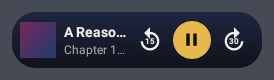
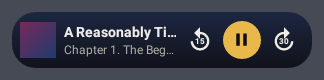
Widgets: the skips and the cover go before the title is squeezed (Now Playing 250 and 300 dp, Listen bar cover from 240 dp)
Claude-Session: https://claude.ai/code/session_012y7soafHxywyzp4CSwQggB

diff --git a/shared/src/commonTest/kotlin/com/chapterplayer/domain/widgets/ListenWidgetStateTest.kt b/shared/src/commonTest/kotlin/com/chapterplayer/domain/widgets/ListenWidgetStateTest.kt
@@ -163,7 +163,7 @@ class ListenWidgetStateTest {
     fun eachBucketIsItsOwnSizeClass() {
         val expected = mapOf(
             "MINI" to ListenSize.MINI, "MINI_TALL" to ListenSize.MINI,
-            "BAR" to ListenSize.BAR, "BAR_ROOMY" to ListenSize.BAR,
+            "BAR" to ListenSize.BAR, "BAR_MID" to ListenSize.BAR, "BAR_ROOMY" to ListenSize.BAR,
             "SQUARE" to ListenSize.SQUARE,
             "WIDE" to ListenSize.WIDE, "WIDE_MID" to ListenSize.WIDE, "WIDE_ROOMY" to ListenSize.WIDE,
             "LARGE" to ListenSize.LARGE, "LARGE_ROOMY" to ListenSize.LARGE,
@@ -182,7 +182,7 @@ class ListenWidgetStateTest {
             "4x1 sideways" to (554f to 51f), "4x2 sideways" to (554f to 117f), "4x3 sideways" to (554f to 184f),
         )
         val expected = mapOf(
-            "2x1" to "MINI_TALL", "3x1" to "BAR", "4x1" to "BAR",
+            "2x1" to "MINI_TALL", "3x1" to "BAR", "4x1" to "BAR_MID",
             "2x2" to "SQUARE", "3x2" to "WIDE", "4x2" to "WIDE_MID",
             "3x3" to "LARGE", "4x3" to "LARGE_ROOMY",
             "4x1 sideways" to "MINI", "4x2 sideways" to "BAR_ROOMY", "4x3 sideways" to "WIDE_ROOMY",
@@ -205,9 +205,11 @@ class ListenWidgetStateTest {
     fun theCoverIsInEverySizeButTheMiniBar() {
         for (b in LISTEN_BUCKETS) for (state in listOf(controls, resume)) {
             val layout = listenLayout(b.widthDp, b.heightDp, state)
-            if (layout.size == ListenSize.MINI) assertEquals(0f, layout.coverDp, b.name) else assertTrue(layout.coverDp > 0f, b.name)
+            // The mini bar has none; the narrowest bar leaves the room to the title (below LISTEN_BAR_COVER_MIN_DP).
+            if (layout.size == ListenSize.MINI || b.name == "BAR") assertEquals(0f, layout.coverDp, b.name) else assertTrue(layout.coverDp > 0f, b.name)
         }
-        assertEquals(44f, layoutAt("BAR").coverDp)
+        assertEquals(0f, layoutAt("BAR").coverDp)
+        assertEquals(44f, layoutAt("BAR_MID").coverDp)
         assertEquals(52f, layoutAt("SQUARE").coverDp)
         assertEquals(72f, layoutAt("WIDE").coverDp)
         assertEquals(92f, layoutAt("WIDE_MID").coverDp)
@@ -220,7 +222,8 @@ class ListenWidgetStateTest {
     /**
      * Which buttons each bucket shows for a loaded book that allows them all, worked by hand from the widths
      * (padding 10 + 10, gap 8 after the cover, 6 before the bar's buttons, play 48, side buttons 40 or 48):
-     * BAR 190: 190 - 20 - 44 - 8 - 6 - 48 = 64 dp of title: play only (back / forward would leave under 110).
+     * BAR 190: no cover below 240 dp; 190 - 20 - 6 - 48 = 116 dp of title: play only (back / forward would leave under 110).
+     * BAR_MID 250: 250 - 20 - 44 - 8 - 6 - 48 = 124 dp of title beside the cover: play only.
      * BAR_ROOMY 340: 340 - 20 - 44 - 8 - 6 - (48 + 2 x 48) = 118 dp of title: back / forward at 48 dp.
      * WIDE 200: 200 - 20 - 72 - 8 = 100 dp beside the cover: play only (back / forward need 128).
      * WIDE_MID 260: 260 - 20 - 92 - 8 = 140: back / forward at 40 (48 would need 144).
@@ -233,6 +236,7 @@ class ListenWidgetStateTest {
         data class Buttons(val skips: Boolean, val chapters: Boolean, val side: Float)
         val expected = mapOf(
             "BAR" to Buttons(false, false, 40f),
+            "BAR_MID" to Buttons(false, false, 40f),
             "BAR_ROOMY" to Buttons(true, false, 48f),
             "WIDE" to Buttons(false, false, 40f),
             "WIDE_MID" to Buttons(true, false, 40f),
@@ -257,6 +261,14 @@ class ListenWidgetStateTest {
         val roomyBar = layoutAt("BAR_ROOMY")
         val titleWidth = 340f - 20f - 44f - 8f - 6f - (48f + 2 * roomyBar.sideButtonDp)
         assertTrue(titleWidth >= 110f, "bar title $titleWidth dp")
+        // And never less than that without the skips either: the cover goes before the title is squeezed.
+        for (name in listOf("BAR", "BAR_MID")) {
+            val l = layoutAt(name)
+            val b = bucket(name)
+            val cover = if (l.coverDp > 0f) l.coverDp + 8f else 0f
+            val title = b.widthDp - 2 * l.horizontalPaddingDp - cover - 6f - l.playButtonDp
+            assertTrue(title >= ListenDimens.BAR_TEXT_MIN_DP, "$name title $title dp")
+        }
     }
 
     @Test
@@ -312,11 +324,16 @@ class ListenWidgetStateTest {
     @Test
     fun nowPlayingShowsItsCoverOnlyWhereItFits() {
         assertFalse(nowPlayingShowsCover(180f))
+        assertFalse(nowPlayingShowsCover(NOW_PLAYING_COVER_MIN_DP - 1f))
         assertTrue(nowPlayingShowsCover(NOW_PLAYING_COVER_MIN_DP))
-        for (width in listOf(NOW_PLAYING_WIDE_MIN_DP, 220f, NOW_PLAYING_COVER_MIN_DP, 320f)) {
+        assertFalse(nowPlayingShowsSkips(NOW_PLAYING_SKIPS_MIN_DP - 1f))
+        assertTrue(nowPlayingShowsSkips(NOW_PLAYING_SKIPS_MIN_DP))
+        // The skips and the cover go before the title is squeezed: at every width from the wide minimum up it keeps room to read.
+        for (width in listOf(NOW_PLAYING_WIDE_MIN_DP, 220f, NOW_PLAYING_SKIPS_MIN_DP, 280f, NOW_PLAYING_COVER_MIN_DP, 320f, 400f)) {
             val cover = if (nowPlayingShowsCover(width)) WidgetDimens.ROW_COVER_DP + WidgetDimens.GAP_DP else 0f
-            val used = 2 * WidgetDimens.ROW_PADDING_DP + cover + 2 * WidgetDimens.SIDE_BUTTON_DP + WidgetDimens.ROW_PLAY_DP
-            assertTrue(width - used >= WidgetDimens.ROW_TEXT_MIN_DP, "Now Playing at $width dp leaves ${width - used} dp for the title")
+            val skips = if (nowPlayingShowsSkips(width)) 2 * WidgetDimens.SIDE_BUTTON_DP else 0f
+            val used = 2 * WidgetDimens.ROW_PADDING_DP + cover + skips + WidgetDimens.ROW_PLAY_DP
+            assertTrue(width - used >= WidgetDimens.ROW_TITLE_COMFORT_DP, "Now Playing at $width dp leaves ${width - used} dp for the title")
         }
     }
 
@@ -376,7 +393,7 @@ class ListenWidgetStateTest {
     @Test
     fun theWidgetCoverIsSmall() {
         // 256 x 256 RGB_565 is 128 KiB, sent once per placed widget (every bucket draws the same bitmap).
-        assertEquals(8, LISTEN_BUCKETS.count { listenSize(it.widthDp, it.heightDp) != ListenSize.MINI })
+        assertEquals(8, LISTEN_BUCKETS.count { listenLayout(it.widthDp, it.heightDp, controls).coverDp > 0f })
         assertEquals(256, WIDGET_COVER_MAX_SIDE)
         assertEquals(131_072L, widgetCoverBytes(256, 256))
         assertEquals(256L * 170 * 2, widgetCoverBytes(256, 170))

diff --git a/shared/src/androidMain/kotlin/com/chapterplayer/ui/widgets/NowPlayingWidget.kt b/shared/src/androidMain/kotlin/com/chapterplayer/ui/widgets/NowPlayingWidget.kt
@@ -37,6 +37,8 @@ import com.chapterplayer.data.widgets.WidgetActions
 import com.chapterplayer.data.widgets.WidgetRefresher
 import com.chapterplayer.data.widgets.WidgetStates
 import com.chapterplayer.domain.widgets.NOW_PLAYING_COVER_MIN_DP
+import com.chapterplayer.domain.widgets.NOW_PLAYING_SKIPS_MIN_DP
+import com.chapterplayer.domain.widgets.nowPlayingShowsSkips
 import com.chapterplayer.domain.widgets.NOW_PLAYING_WIDE_MIN_DP
 import com.chapterplayer.domain.widgets.NowPlayingWidgetState
 import com.chapterplayer.domain.widgets.WidgetDimens
@@ -55,7 +57,7 @@ import org.koin.core.component.get
 
 /**
  * The Now Playing home screen widget. Narrow it is play/pause only; from [NOW_PLAYING_WIDE_MIN_DP] wide it shows
- * the title and back 15 / play-pause / forward 30, from [NOW_PLAYING_COVER_MIN_DP] with the book's cover first (the
+ * the title and play-pause, from [NOW_PLAYING_SKIPS_MIN_DP] back 15 / forward 30 too, from [NOW_PLAYING_COVER_MIN_DP] with the book's cover first (the
  * shared look of WidgetUi.kt: rounded card, round play button). Tapping the body opens the app on the player. The buttons act
  * on the loaded book through the app's one controller (see [WidgetActions]). With nothing loaded it offers the last book
  * (the Listen and Continue Listening book) with Play, which starts it without opening the app ([WidgetPlayAction]);
@@ -63,7 +65,7 @@ import org.koin.core.component.get
  */
 class NowPlayingWidget : GlanceAppWidget(), KoinComponent {
 
-    override val sizeMode = SizeMode.Responsive(setOf(NARROW, WIDE, WIDE_COVER))
+    override val sizeMode = SizeMode.Responsive(setOf(NARROW, WIDE, WIDE_SKIPS, WIDE_COVER))
 
     override suspend fun provideGlance(context: Context, id: GlanceId) {
         val states = get<WidgetStates>()
@@ -87,6 +89,7 @@ class NowPlayingWidget : GlanceAppWidget(), KoinComponent {
     companion object {
         val NARROW = DpSize(40.dp, 40.dp)
         val WIDE = DpSize(NOW_PLAYING_WIDE_MIN_DP.dp, 40.dp)
+        val WIDE_SKIPS = DpSize(NOW_PLAYING_SKIPS_MIN_DP.dp, 40.dp)
         val WIDE_COVER = DpSize(NOW_PLAYING_COVER_MIN_DP.dp, 40.dp)
     }
 }
@@ -137,13 +140,13 @@ internal fun NowPlayingContent(context: Context, state: NowPlayingWidgetState, c
                     )
                 }
             }
-            is NowPlayingWidgetState.Book -> if (wide) WideBook(state, cover, nowPlayingShowsCover(width), colors) else PlayPause(state, colors)
+            is NowPlayingWidgetState.Book -> if (wide) WideBook(state, cover, nowPlayingShowsCover(width), state.canSkip && nowPlayingShowsSkips(width), colors) else PlayPause(state, colors)
         }
     }
 }
 
 @Composable
-private fun RowScope.WideBook(state: NowPlayingWidgetState.Book, cover: Bitmap?, showCover: Boolean, colors: WidgetColors) {
+private fun RowScope.WideBook(state: NowPlayingWidgetState.Book, cover: Bitmap?, showCover: Boolean, showSkips: Boolean, colors: WidgetColors) {
     if (showCover) {
         WidgetCover(cover, WidgetDimens.ROW_COVER_DP.dp, colors)
         Spacer(GlanceModifier.width(WidgetDimens.GAP_DP.dp))
@@ -159,11 +162,11 @@ private fun RowScope.WideBook(state: NowPlayingWidgetState.Book, cover: Bitmap?,
             Text(text = second, style = TextStyle(color = colors.textSecondary, fontSize = 12.sp), maxLines = 1)
         }
     }
-    if (state.canSkip) {
+    if (showSkips) {
         WidgetIconButton(R.drawable.ic_widget_back, "Back 15 seconds", colors.icon, actionRunCallback<SkipBackAction>(), label = "15")
     }
     PlayPause(state, colors)
-    if (state.canSkip) {
+    if (showSkips) {
         WidgetIconButton(R.drawable.ic_widget_forward, "Forward 30 seconds", colors.icon, actionRunCallback<SkipForwardAction>(), label = "30")
     }
 }

diff --git a/shared/src/androidHostTest/kotlin/com/chapterplayer/ui/screenshots/WidgetScreenshotTest.kt b/shared/src/androidHostTest/kotlin/com/chapterplayer/ui/screenshots/WidgetScreenshotTest.kt
@@ -83,11 +83,12 @@ class WidgetScreenshotTest {
     // ---- Now Playing ----
     @Test fun nowPlayingNarrow() = shot("widget_np_narrow_dark", 40f, 40f, ThemeMode.DARK) { c, k -> NowPlayingContent(c, book, null, k) }
     @Test fun nowPlayingWide() = shot("widget_np_wide_dark", 180f, 40f, ThemeMode.DARK) { c, k -> NowPlayingContent(c, book, null, k) }
-    @Test fun nowPlayingCover() = shot("widget_np_cover_dark", 250f, 56f, ThemeMode.DARK) { c, k -> NowPlayingContent(c, book, cover, k) }
-    @Test fun nowPlayingCoverLight() = shot("widget_np_cover_light", 250f, 56f, ThemeMode.LIGHT) { c, k -> NowPlayingContent(c, book, cover, k) }
-    @Test fun nowPlayingLongTitle() = shot("widget_np_long_title", 250f, 56f, ThemeMode.DARK) { c, k -> NowPlayingContent(c, longBook, cover, k) }
-    @Test fun nowPlayingResume() = shot("widget_np_resume", 250f, 56f, ThemeMode.DARK) { c, k -> NowPlayingContent(c, resume, cover, k) }
-    @Test fun nowPlayingEmpty() = shot("widget_np_empty", 250f, 56f, ThemeMode.DARK) { c, k -> NowPlayingContent(c, NowPlayingWidgetState.Empty(everPlayed = false), null, k) }
+    @Test fun nowPlayingSkips() = shot("widget_np_skips_dark", 250f, 56f, ThemeMode.DARK) { c, k -> NowPlayingContent(c, book, cover, k) }
+    @Test fun nowPlayingCover() = shot("widget_np_cover_dark", 300f, 56f, ThemeMode.DARK) { c, k -> NowPlayingContent(c, book, cover, k) }
+    @Test fun nowPlayingCoverLight() = shot("widget_np_cover_light", 300f, 56f, ThemeMode.LIGHT) { c, k -> NowPlayingContent(c, book, cover, k) }
+    @Test fun nowPlayingLongTitle() = shot("widget_np_long_title", 300f, 56f, ThemeMode.DARK) { c, k -> NowPlayingContent(c, longBook, cover, k) }
+    @Test fun nowPlayingResume() = shot("widget_np_resume", 300f, 56f, ThemeMode.DARK) { c, k -> NowPlayingContent(c, resume, cover, k) }
+    @Test fun nowPlayingEmpty() = shot("widget_np_empty", 300f, 56f, ThemeMode.DARK) { c, k -> NowPlayingContent(c, NowPlayingWidgetState.Empty(everPlayed = false), null, k) }
 
     // ---- Continue Listening ----
     @Test fun continueBook() = shot("widget_continue_dark", 250f, 110f, ThemeMode.DARK) { c, k -> ContinueContent(c, continueBook, cover, k) }
@@ -104,7 +105,7 @@ class WidgetScreenshotTest {
     }
 
     @Test fun listenBucketsLight() {
-        for (name in listOf("BAR", "WIDE_MID", "LARGE_ROOMY")) {
+        for (name in listOf("BAR_MID", "WIDE_MID", "LARGE_ROOMY")) {
             val bucket = LISTEN_BUCKETS.first { it.name == name }
             shot("widget_listen_${name.lowercase()}_light", bucket.widthDp, bucket.heightDp, ThemeMode.LIGHT) { c, k ->
                 ListenContent(c, controls, cover, k)
@@ -113,7 +114,7 @@ class WidgetScreenshotTest {
     }
 
     @Test fun listenLongTitles() {
-        for (name in listOf("BAR", "WIDE_MID", "LARGE_ROOMY")) {
+        for (name in listOf("BAR", "BAR_MID", "WIDE_MID", "LARGE_ROOMY")) {
             val bucket = LISTEN_BUCKETS.first { it.name == name }
             shot("widget_listen_${name.lowercase()}_long", bucket.widthDp, bucket.heightDp, ThemeMode.DARK) { c, k ->
                 ListenContent(c, controlsLong, cover, k)

diff --git a/shared/src/commonMain/kotlin/com/chapterplayer/domain/widgets/ListenWidget.kt b/shared/src/commonMain/kotlin/com/chapterplayer/domain/widgets/ListenWidget.kt
@@ -108,6 +108,12 @@ enum class ListenSize {
 /** From this width (three cells) the low widget is the bar with its cover. */
 const val LISTEN_BAR_MIN_WIDTH_DP = 190f
 
+/**
+ * From this width the bar shows its cover: padding, the cover, the play button and [ListenDimens.BAR_TEXT_MIN_DP] for the
+ * title. Narrower, the title keeps the room the cover would take (the widget screenshots showed "An Extr..." at 190 dp).
+ */
+const val LISTEN_BAR_COVER_MIN_DP = 240f
+
 /** From this height the bar has room for its cover and two lines at font scale 1.3 (a 4x1 upright is about 102 dp). */
 const val LISTEN_BAR_MIN_HEIGHT_DP = 68f
 
@@ -142,6 +148,7 @@ val LISTEN_BUCKETS: List<ListenBucket> = listOf(
     ListenBucket("MINI", 110f, 40f),
     ListenBucket("MINI_TALL", 110f, 56f),
     ListenBucket("BAR", LISTEN_BAR_MIN_WIDTH_DP, LISTEN_BAR_MIN_HEIGHT_DP),
+    ListenBucket("BAR_MID", LISTEN_BAR_COVER_MIN_DP + 10f, LISTEN_BAR_MIN_HEIGHT_DP),
     ListenBucket("BAR_ROOMY", 340f, LISTEN_BAR_MIN_HEIGHT_DP),
     ListenBucket("SQUARE", LISTEN_SQUARE_MIN_WIDTH_DP, LISTEN_TALL_MIN_HEIGHT_DP),
     ListenBucket("WIDE", LISTEN_WIDE_MIN_WIDTH_DP, LISTEN_TALL_MIN_HEIGHT_DP),
@@ -227,7 +234,7 @@ fun listenLayout(widthDp: Float, heightDp: Float, state: ListenWidgetState): Lis
             playButtonDp = (heightDp - 8f).coerceIn(40f, WidgetDimens.PLAY_TARGET_DP), horizontalPaddingDp = 6f, verticalPaddingDp = 0f,
         )
         ListenSize.BAR -> ListenLayout(
-            size, coverDp = ListenDimens.BAR_COVER_DP, titleSp = ListenDimens.TITLE_SP, titleLines = 1, showSecondLine = book,
+            size, coverDp = if (widthDp >= LISTEN_BAR_COVER_MIN_DP) ListenDimens.BAR_COVER_DP else 0f, titleSp = ListenDimens.TITLE_SP, titleLines = 1, showSecondLine = book,
             showAuthorAndChapter = false, showProgress = false, showMeta = false, showSkips = false, showChapterButtons = false,
             sideButtonDp = side, playButtonDp = WidgetDimens.PLAY_TARGET_DP, horizontalPaddingDp = ListenDimens.PADDING_DP,
             verticalPaddingDp = ListenDimens.BAR_VERTICAL_PADDING_DP,

diff --git a/shared/src/commonMain/kotlin/com/chapterplayer/domain/widgets/WidgetLook.kt b/shared/src/commonMain/kotlin/com/chapterplayer/domain/widgets/WidgetLook.kt
@@ -34,10 +34,24 @@ object WidgetDimens {
 
     /** A one-row widget keeps at least this much for its title. */
     const val ROW_TEXT_MIN_DP = 36f
+
+    /**
+     * What a title needs to read as a title ("A Reasonably Titl..." rather than "A R..."): the skip buttons and the cover
+     * of a one-row widget are shown only where the title keeps this much (the widget screenshots showed 36 to 62 dp).
+     */
+    const val ROW_TITLE_COMFORT_DP = 100f
 }
 
-/** From this width Now Playing shows the loaded book's cover before its title. */
-const val NOW_PLAYING_COVER_MIN_DP = 250f
+/**
+ * From this width Now Playing shows back 15 / forward 30 as well as the title and play: padding, the three buttons and
+ * [WidgetDimens.ROW_TITLE_COMFORT_DP] (below it the title and play only).
+ */
+const val NOW_PLAYING_SKIPS_MIN_DP = 250f
+
+/** From this width Now Playing shows the loaded book's cover before its title (the skips' width, the cover and its gap, rounded up). */
+const val NOW_PLAYING_COVER_MIN_DP = 300f
+
+fun nowPlayingShowsSkips(widthDp: Float): Boolean = widthDp >= NOW_PLAYING_SKIPS_MIN_DP
 
 /** Continue Listening's smallest width (its provider's minimum). */
 const val CONTINUE_MIN_WIDTH_DP = 180f

diff --git a/docs/architecture/widgets.md b/docs/architecture/widgets.md
@@ -4,4 +4,4 @@ The three Glance widgets, their states, sizes and cover handling.
 
 Detail moved out of `CLAUDE.md` (review R8); keep it current when this area changes.
 
-- Widgets (Glance 1.2.0, `shared/androidMain/.../ui/widgets`; receivers in the app manifest, provider XML and previews in `shared/src/androidMain/res`): Now Playing (narrow = play/pause, from 180 dp title + back 15 / play-pause / forward 30; the body opens the player through `open_player`) and Continue Listening. A widget's Play with nothing loaded (the Listen and Continue Listening Resume cards; Now Playing, which with nothing loaded offers the same last book through `nowPlayingWidgetState(state, book, items, online, downloadedOnly)` instead of "Nothing playing", "Nothing played yet" only without history) is HEADLESS: `WidgetPlayAction` (`ui/widgets/WidgetPlay.kt`, book id as an action parameter) runs `WidgetResumer.launchHeadless` in the app scope (one start at a time, only the book the widget offers or Home's Resume book, `widgetMayResume`) through `PlaybackStarter` (`resumeCopy`, downloaded first); MainActivity is not started, the widgets flip to their controls from the player state, a failure is a toast (`widgetStartReaction`); for Sign in again a notification (`PlaybackNotices`) opens the app (no activity is started from the background). A Play never replaces a loaded book (`widgetPlayDecision`, checked when the tap arrives since a card can be stale): a copy of the tapped entry plays on, another book stays ("Another book is playing", the widgets are redrawn). `WidgetPlayAction` waits for the start (`WidgetResumer.playFromWidget`, at most `WIDGET_START_WAIT_MS` = 20 s) so the widget's broadcast keeps the process's priority during the server calls; a longer start goes on in the app scope. The widget states share one merged-library flow (`WidgetStates(scope = app scope)`, dropped when unwatched) and Now Playing is collected only while some widget is placed. It relies on Android's documented widget-interaction exemption for starting a foreground service from the background; if Media3 still reports `onForegroundServiceStartNotAllowedException` (`PlaybackService` sets a `MediaSessionService.Listener`), the book is paused and `PlaybackNotices.keepListening` posts "Tap to keep listening" (channel `playback_notices`), which opens the player (`foregroundRefusalAction`); since targetSdk 36 an audio focus request Android refuses at that start does the same (`AudioFocusStartWatch`, see `playback.md`). The last book is not preloaded at app start (no server session for a book nobody plays). The older activity path (`resume_book_id`, `shouldHandleWidgetResume`, opens the player after the start) stays for widgets drawn by an earlier version. The full player never says "Nothing is playing": `PlaybackStarter.status` (`domain/playback/StartStatus.kt`) gives `playerEmptyView`: a loading view while a start runs, the start's reason after a failure, and a player with nothing loaded and nothing starting closes itself (only when the player is the current route). A failure shows only for a start begun while the player's state was watched and for `START_FAILURE_SHOWN_MS` (30 s) (`visibleStartStatus`); Back, the system back and a successful start clear it. What they show is pure code in `domain/widgets` (`WidgetState.kt`, `WidgetCommands.kt`); `data/widgets` holds `WidgetStates` (the flows), `WidgetActions` (buttons act on the loaded book only, never load one; with nothing loaded the button opens the app) and `WidgetRefresher` (started by the application; redraws on state changes, not position ticks, Continue debounced) behind `WidgetHost` (`GlanceWidgetHost`). All three share one look (`WidgetUi.kt`: `cardModifier`, `WidgetPlayButton`, `WidgetCover`, `WidgetProgressBar`; sizes in `domain/widgets/WidgetLook.kt` `WidgetDimens`; colours in `ui/theme/WidgetPalette.kt`; design reference: the AudioBooth iOS widgets, our own Glance code): a rounded card (24 dp) drawn by the `widget_card_dark` / `widget_card_light` / `widget_card_system` (+ `drawable-night`) gradient drawables in the app's midnight theme (`WidgetPalette` is built from `DarkPalette` / `LightPalette`): dark = navy surfaceSecondary `#1E2742` to `#11131B` (halfway between surfaceElevated and background), the app's text colours, light side buttons, an amber play circle with the onAmber glyph; light = white to the warm paper surfaceSecondary `#EBE8E0`, dark text, the light amber `#8A5A00` with a white glyph; a thin progress bar (amber on a dim navy `#42485A` track; light: on a warm grey `#C1BBAF`); rounded-square covers (12 dp) with a placeholder square (the track colour) when there is none. Colours follow `AppSettings.themeMode` (`widgetCard`: "follow system" uses day/night providers and the night drawable from Android 12; before that Glance bakes the colours with the app's night mode, so the card is `widget_card_dark` / `_light` chosen from the same configuration, and `GlanceWidgetHost` redraws every widget on a day/night switch, `widgetsRedrawOnNightChange`). The picker previews (`previewLayout`) follow day/night through `values(-night)/widget_colors.xml` and `widget_card_system` (tested against the palette); the pre-12 `previewImage` vectors stay dark (navy). `WidgetPaletteContrastTest` checks both themes at both ends of the gradient, that the colours come from the app palette, and that the drawables and the pre-12 picker images carry them. Every widget shows the book's cover (Now Playing from 250 dp wide, `nowPlayingShowsCover`; Listen in every size but the mini bar). R8 keeps the `ActionCallback` constructors (`proguard-rules.pro`). A third widget, Listen (`ListenWidget`, `ListenWidgetReceiver`, `xml/listen_widget_info.xml`, placed 4x2), joins Resume and the controls: rules in `domain/widgets/ListenWidget.kt` (`listenWidgetState`: a loaded book, playing or paused, shows its controls with the Now Playing title and button rules; else the Continue Listening book through `continueWidgetState` itself, so both widgets offer the same copy; `Empty` says "Nothing played yet" or "Nothing to resume now"; the state moves at most once per whole percent, never on a tick). Sizes (`listenSize`, `listenLayout`): Glance lays the widget out only at the ten `LISTEN_BUCKETS` (`SizeMode.Responsive`; `LocalSize` is the bucket, never the launcher's size, and the launcher shows the closest bucket that fits), so every width rule is reached only through a bucket: MINI 110x40 and MINI_TALL 110x56 (play 40 / 48 dp and the title, no cover), BAR 190x68 (44 dp cover, title and the time left or chapter, play only: the title keeps 110 dp before back / forward may show) and BAR_ROOMY 340x68 (back 15 / forward 30 at 48 dp), SQUARE 110x160 (52 dp cover, title, play with the time left beside it), WIDE 200x160 (72 dp cover; title, author or chapter, progress, time left, play only), WIDE_MID 260x160 (92 dp cover, back / forward at 40 dp) and WIDE_ROOMY 330x160 (all five buttons at 40 dp), LARGE 200x250 (80 dp cover, two-line title, author and chapter, progress, back / forward at 48 dp) and LARGE_ROOMY 270x250 (112 dp cover, all five at 48 dp). On a phone: 2x1 MINI_TALL, 3x1 and 4x1 BAR, 2x2 SQUARE, 3x2 WIDE, 4x2 WIDE_MID, 3x3 LARGE, 4x3 LARGE_ROOMY, 4x1 sideways MINI, 4x2 sideways BAR_ROOMY, 4x3 sideways WIDE_ROOMY (the test models the launcher's choice apart from the production code). More buttons win over bigger ones; chapter buttons only with two chapters or more, skips only with a known length. `listenContentHeightDp` (sizes in `ListenDimens`) is tested to fit every bucket at font scale 1.0 and 1.3 and the buttons each bucket shows are checked against widths worked by hand; font scale 2.0 (Android 14) can clip the lowest buckets (known limit). Before Android 12 Glance ignores the progress bar's colours (the system tint shows). Play in the Resume state is the headless widget Play (`WidgetPlayAction`); the controls are `Listen*Action` callbacks through `WidgetActions` (`previousChapter` / `nextChapter` use `remoteAction`), which act on the loaded book only (`runWidgetButton`, shared with Now Playing); the body opens the player while a book is loaded. `WidgetRefresher.listen` is `WidgetStates.listen` computed once and shared (the refresher and the widget's session), only while a Listen widget is placed (`WidgetHost.listenPlaced` at start, then the receiver's onEnabled / onDisabled and every `provideGlance`); it redraws Listen at once for the controls and debounced like Continue for the Resume state, and asks `WidgetCovers.prefetch` for the shown book's cover off the redraw when the state changes, the network comes back or the widget is drawn (`requestCover`, from `provideGlance`: placed, resized, a system update); `coverNextStep` redraws once on a new cover and retries a failure after the loader's 60 s backoff while online, at most 3 tries. The refresher shares each widget's state flow once (redraws and covers), asks for the covers of the books all three show (a `NowPlayingWidgetState.Book` carries its `bookId`) only while some widget is placed (`anyPlaced`: `WidgetHost.anyPlaced` at start, a drawn widget's `requestCover`, the receivers' `onDisabled` via `widgetsRemoved`), and draws all three again when one arrives (Listen only while placed) in its own coroutine, so a request arriving meanwhile cannot cut the redraws short. Android's `WidgetCoverCache` (`ui/widgets`, was `ListenCoverCache`) loads covers in the app through `CoverBytesLoader` (downloaded cover first, token only in a header), decodes them as RGB_565 to at most 256 px (`WIDGET_COVER_MAX_SIDE`, `AndroidCoverScaler.decodeScaledBitmap`; 128 KiB per cover; the eight cover buckets draw the same Bitmap, which RemoteViews' shared bitmap cache sends once per update) and keeps the 3 used last, by access (at most 384 KiB); the widgets get a bitmap, never an address. R8 renames `ListenWidget` (like the two older widget classes; no keepnames rule, nothing shows it causes harm: the system sends APPWIDGET_UPDATE after a package update). Host-tested only
+- Widgets (Glance 1.2.0, `shared/androidMain/.../ui/widgets`; receivers in the app manifest, provider XML and previews in `shared/src/androidMain/res`): Now Playing (narrow = play/pause, from 180 dp title + play-pause, from 250 dp back 15 / forward 30 too, from 300 dp the cover first (the skips and the cover go before the title is squeezed under 100 dp; the Listen bar likewise shows its cover only from 240 dp, bucket BAR_MID at 250); the body opens the player through `open_player`) and Continue Listening. A widget's Play with nothing loaded (the Listen and Continue Listening Resume cards; Now Playing, which with nothing loaded offers the same last book through `nowPlayingWidgetState(state, book, items, online, downloadedOnly)` instead of "Nothing playing", "Nothing played yet" only without history) is HEADLESS: `WidgetPlayAction` (`ui/widgets/WidgetPlay.kt`, book id as an action parameter) runs `WidgetResumer.launchHeadless` in the app scope (one start at a time, only the book the widget offers or Home's Resume book, `widgetMayResume`) through `PlaybackStarter` (`resumeCopy`, downloaded first); MainActivity is not started, the widgets flip to their controls from the player state, a failure is a toast (`widgetStartReaction`); for Sign in again a notification (`PlaybackNotices`) opens the app (no activity is started from the background). A Play never replaces a loaded book (`widgetPlayDecision`, checked when the tap arrives since a card can be stale): a copy of the tapped entry plays on, another book stays ("Another book is playing", the widgets are redrawn). `WidgetPlayAction` waits for the start (`WidgetResumer.playFromWidget`, at most `WIDGET_START_WAIT_MS` = 20 s) so the widget's broadcast keeps the process's priority during the server calls; a longer start goes on in the app scope. The widget states share one merged-library flow (`WidgetStates(scope = app scope)`, dropped when unwatched) and Now Playing is collected only while some widget is placed. It relies on Android's documented widget-interaction exemption for starting a foreground service from the background; if Media3 still reports `onForegroundServiceStartNotAllowedException` (`PlaybackService` sets a `MediaSessionService.Listener`), the book is paused and `PlaybackNotices.keepListening` posts "Tap to keep listening" (channel `playback_notices`), which opens the player (`foregroundRefusalAction`); since targetSdk 36 an audio focus request Android refuses at that start does the same (`AudioFocusStartWatch`, see `playback.md`). The last book is not preloaded at app start (no server session for a book nobody plays). The older activity path (`resume_book_id`, `shouldHandleWidgetResume`, opens the player after the start) stays for widgets drawn by an earlier version. The full player never says "Nothing is playing": `PlaybackStarter.status` (`domain/playback/StartStatus.kt`) gives `playerEmptyView`: a loading view while a start runs, the start's reason after a failure, and a player with nothing loaded and nothing starting closes itself (only when the player is the current route). A failure shows only for a start begun while the player's state was watched and for `START_FAILURE_SHOWN_MS` (30 s) (`visibleStartStatus`); Back, the system back and a successful start clear it. What they show is pure code in `domain/widgets` (`WidgetState.kt`, `WidgetCommands.kt`); `data/widgets` holds `WidgetStates` (the flows), `WidgetActions` (buttons act on the loaded book only, never load one; with nothing loaded the button opens the app) and `WidgetRefresher` (started by the application; redraws on state changes, not position ticks, Continue debounced) behind `WidgetHost` (`GlanceWidgetHost`). All three share one look (`WidgetUi.kt`: `cardModifier`, `WidgetPlayButton`, `WidgetCover`, `WidgetProgressBar`; sizes in `domain/widgets/WidgetLook.kt` `WidgetDimens`; colours in `ui/theme/WidgetPalette.kt`; design reference: the AudioBooth iOS widgets, our own Glance code): a rounded card (24 dp) drawn by the `widget_card_dark` / `widget_card_light` / `widget_card_system` (+ `drawable-night`) gradient drawables in the app's midnight theme (`WidgetPalette` is built from `DarkPalette` / `LightPalette`): dark = navy surfaceSecondary `#1E2742` to `#11131B` (halfway between surfaceElevated and background), the app's text colours, light side buttons, an amber play circle with the onAmber glyph; light = white to the warm paper surfaceSecondary `#EBE8E0`, dark text, the light amber `#8A5A00` with a white glyph; a thin progress bar (amber on a dim navy `#42485A` track; light: on a warm grey `#C1BBAF`); rounded-square covers (12 dp) with a placeholder square (the track colour) when there is none. Colours follow `AppSettings.themeMode` (`widgetCard`: "follow system" uses day/night providers and the night drawable from Android 12; before that Glance bakes the colours with the app's night mode, so the card is `widget_card_dark` / `_light` chosen from the same configuration, and `GlanceWidgetHost` redraws every widget on a day/night switch, `widgetsRedrawOnNightChange`). The picker previews (`previewLayout`) follow day/night through `values(-night)/widget_colors.xml` and `widget_card_system` (tested against the palette); the pre-12 `previewImage` vectors stay dark (navy). `WidgetPaletteContrastTest` checks both themes at both ends of the gradient, that the colours come from the app palette, and that the drawables and the pre-12 picker images carry them. Every widget shows the book's cover (Now Playing from 250 dp wide, `nowPlayingShowsCover`; Listen in every size but the mini bar). R8 keeps the `ActionCallback` constructors (`proguard-rules.pro`). A third widget, Listen (`ListenWidget`, `ListenWidgetReceiver`, `xml/listen_widget_info.xml`, placed 4x2), joins Resume and the controls: rules in `domain/widgets/ListenWidget.kt` (`listenWidgetState`: a loaded book, playing or paused, shows its controls with the Now Playing title and button rules; else the Continue Listening book through `continueWidgetState` itself, so both widgets offer the same copy; `Empty` says "Nothing played yet" or "Nothing to resume now"; the state moves at most once per whole percent, never on a tick). Sizes (`listenSize`, `listenLayout`): Glance lays the widget out only at the ten `LISTEN_BUCKETS` (`SizeMode.Responsive`; `LocalSize` is the bucket, never the launcher's size, and the launcher shows the closest bucket that fits), so every width rule is reached only through a bucket: MINI 110x40 and MINI_TALL 110x56 (play 40 / 48 dp and the title, no cover), BAR 190x68 (44 dp cover, title and the time left or chapter, play only: the title keeps 110 dp before back / forward may show) and BAR_ROOMY 340x68 (back 15 / forward 30 at 48 dp), SQUARE 110x160 (52 dp cover, title, play with the time left beside it), WIDE 200x160 (72 dp cover; title, author or chapter, progress, time left, play only), WIDE_MID 260x160 (92 dp cover, back / forward at 40 dp) and WIDE_ROOMY 330x160 (all five buttons at 40 dp), LARGE 200x250 (80 dp cover, two-line title, author and chapter, progress, back / forward at 48 dp) and LARGE_ROOMY 270x250 (112 dp cover, all five at 48 dp). On a phone: 2x1 MINI_TALL, 3x1 and 4x1 BAR, 2x2 SQUARE, 3x2 WIDE, 4x2 WIDE_MID, 3x3 LARGE, 4x3 LARGE_ROOMY, 4x1 sideways MINI, 4x2 sideways BAR_ROOMY, 4x3 sideways WIDE_ROOMY (the test models the launcher's choice apart from the production code). More buttons win over bigger ones; chapter buttons only with two chapters or more, skips only with a known length. `listenContentHeightDp` (sizes in `ListenDimens`) is tested to fit every bucket at font scale 1.0 and 1.3 and the buttons each bucket shows are checked against widths worked by hand; font scale 2.0 (Android 14) can clip the lowest buckets (known limit). Before Android 12 Glance ignores the progress bar's colours (the system tint shows). Play in the Resume state is the headless widget Play (`WidgetPlayAction`); the controls are `Listen*Action` callbacks through `WidgetActions` (`previousChapter` / `nextChapter` use `remoteAction`), which act on the loaded book only (`runWidgetButton`, shared with Now Playing); the body opens the player while a book is loaded. `WidgetRefresher.listen` is `WidgetStates.listen` computed once and shared (the refresher and the widget's session), only while a Listen widget is placed (`WidgetHost.listenPlaced` at start, then the receiver's onEnabled / onDisabled and every `provideGlance`); it redraws Listen at once for the controls and debounced like Continue for the Resume state, and asks `WidgetCovers.prefetch` for the shown book's cover off the redraw when the state changes, the network comes back or the widget is drawn (`requestCover`, from `provideGlance`: placed, resized, a system update); `coverNextStep` redraws once on a new cover and retries a failure after the loader's 60 s backoff while online, at most 3 tries. The refresher shares each widget's state flow once (redraws and covers), asks for the covers of the books all three show (a `NowPlayingWidgetState.Book` carries its `bookId`) only while some widget is placed (`anyPlaced`: `WidgetHost.anyPlaced` at start, a drawn widget's `requestCover`, the receivers' `onDisabled` via `widgetsRemoved`), and draws all three again when one arrives (Listen only while placed) in its own coroutine, so a request arriving meanwhile cannot cut the redraws short. Android's `WidgetCoverCache` (`ui/widgets`, was `ListenCoverCache`) loads covers in the app through `CoverBytesLoader` (downloaded cover first, token only in a header), decodes them as RGB_565 to at most 256 px (`WIDGET_COVER_MAX_SIDE`, `AndroidCoverScaler.decodeScaledBitmap`; 128 KiB per cover; the eight cover buckets draw the same Bitmap, which RemoteViews' shared bitmap cache sends once per update) and keeps the 3 used last, by access (at most 384 KiB); the widgets get a bitmap, never an address. R8 renames `ListenWidget` (like the two older widget classes; no keepnames rule, nothing shows it causes harm: the system sends APPWIDGET_UPDATE after a package update). Host-tested only

diff --git a/docs/architecture/testing.md b/docs/architecture/testing.md
@@ -32,7 +32,7 @@ Started by review finding R2 (no UI or screenshot tests; layout faults were only
 
 - **Settings pages (R25):** `ui/screenshots/SettingsPageScreenshotTest` draws the shared `SettingsPage` frame with switch cards on a phone, in landscape and on a tablet: 3 goldens. `SettingsPage` and Add Server now keep their content in a column at most 640 dp wide (`SETTINGS_MAX_WIDTH`), centred; before, the cards ran across the whole tablet. Other settings pages use `SettingsPage`, so they follow.
 
-- **Widgets (R2 step 3):** `ui/screenshots/WidgetScreenshotTest` composes each Glance widget at an exact size with `GlanceAppWidget.compose` (a test widget with `SizeMode.Exact` that calls the internal `NowPlayingContent`, `ListenContent` or `ContinueContent`), inflates the `RemoteViews` into a `FrameLayout` under Robolectric, draws that into a bitmap and captures the bitmap (Roborazzi's View capture needs an Activity). 28 goldens: Now Playing at three widths, with a long title, Resume and empty; Continue Listening with a book and empty; Listen at all ten size buckets in dark, three of them in light and with long titles, plus Resume and empty. Colours are baked for the chosen theme (`widgetColors`), the cover is a drawn bitmap. Seen and left: at the smallest widths the title gets about 60 dp ("A Reaso...", "An Extr..."), which is a thresholds question for the owner.
+- **Widgets (R2 step 3):** `ui/screenshots/WidgetScreenshotTest` composes each Glance widget at an exact size with `GlanceAppWidget.compose` (a test widget with `SizeMode.Exact` that calls the internal `NowPlayingContent`, `ListenContent` or `ContinueContent`), inflates the `RemoteViews` into a `FrameLayout` under Robolectric, draws that into a bitmap and captures the bitmap (Roborazzi's View capture needs an Activity). 28 goldens: Now Playing at three widths, with a long title, Resume and empty; Continue Listening with a book and empty; Listen at all ten size buckets in dark, three of them in light and with long titles, plus Resume and empty. Colours are baked for the chosen theme (`widgetColors`), the cover is a drawn bitmap. The goldens showed the title squeezed to 36 to 62 dp at the smallest widths ("A R...", "An Extr..."); Now Playing now shows the skips from 250 dp and the cover from 300 dp, and the Listen bar its cover from 240 dp (a new BAR_MID bucket at 250), so a title keeps 100 dp (`WidgetDimens.ROW_TITLE_COMFORT_DP`). Continue Listening is a single size and was left as is (76 dp for the title at its 180 dp minimum).
 
 - Checked on Windows (JDK 17): `verifyRoborazziAndroidHostTest` passes with all 3191 host tests; widening the
   rows' padding by 2 dp made all four screenshot tests fail with "... font_card_dark_100.png is changed"; plain
